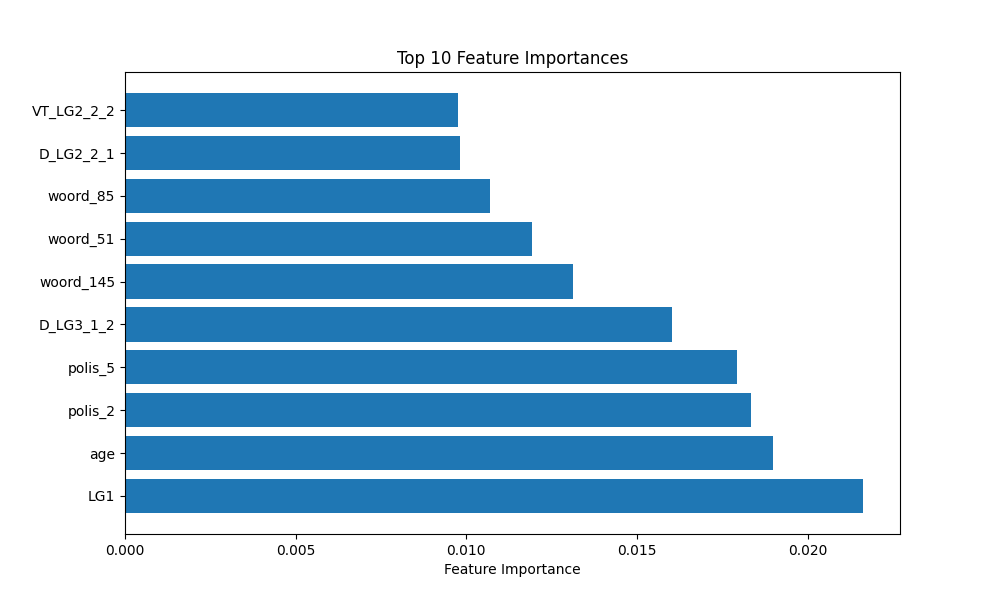
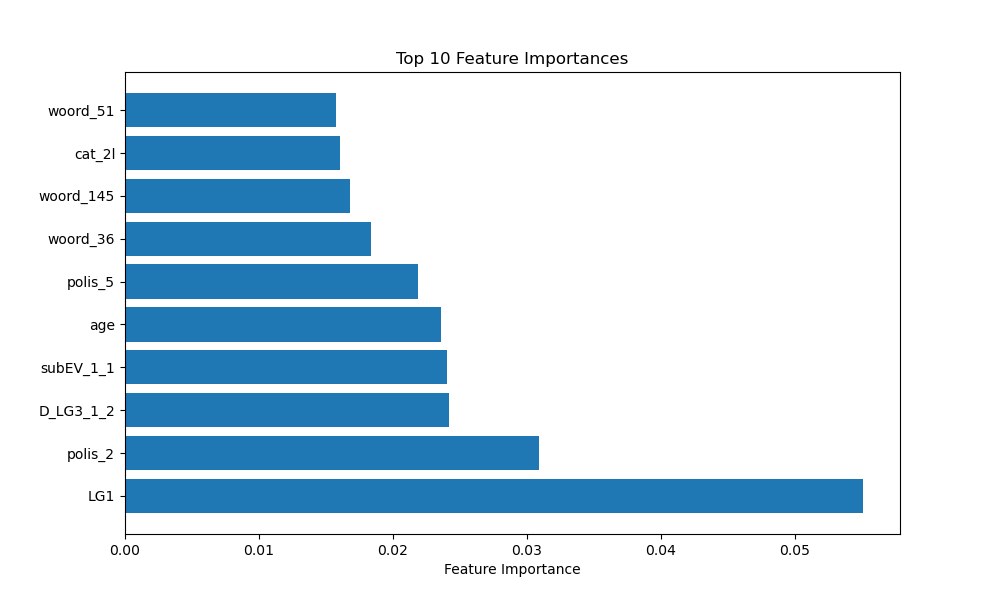
final best model

diff --git a/combined_code.py b/combined_code.py
@@ -15,6 +15,7 @@ from data_research import create_df
 import matplotlib.pyplot as plt
 import joblib
 import numpy as np
+import os
 
 
 class InsuranceClassifier:
@@ -35,7 +36,10 @@ class InsuranceClassifier:
         self._preprocess_data()
         self._cv_creation()
         self._classify_random_forest()
-        self.choose_model_by_rule()
+        if os.path.exists("best_model.joblib"):
+            self.load_the_model()
+        else:
+            self.choose_model_by_rule()
 
     def _prepare_variables(self):
         self.ids = self.erasmus_db["id"]
@@ -132,8 +136,18 @@ class InsuranceClassifier:
         # Choose the simplest model among candidates
         selected_index = candidates.max()
         # Update the best model
-        self.best_model = self.grid_search.best_estimator_.set_params(classifier__n_estimators=cv_results["param_classifier__max_features"][selected_index])
+        self.best_model = self.grid_search.best_estimator_.set_params(classifier__max_features=cv_results["param_classifier__max_features"][selected_index])
         # Update predictions accordingly
+        self.predictions = self.best_model.predict(self.X_test)
+        self.predictions_full = self.best_model.predict(
+            self.erasmus_db.drop("status", axis=1))
+        self.erasmus_db["predictions"] = self.predictions_full
+        defactorized_column = pd.Categorical.from_codes(
+            self.erasmus_db['predictions'], self.definitions)
+        self.erasmus_db['predictions_defactor'] = defactorized_column
+    
+    def load_the_model(self):
+        self.best_model = joblib.load("best_model.joblib")
         self.predictions = self.best_model.predict(self.X_test)
         self.predictions_full = self.best_model.predict(
             self.erasmus_db.drop("status", axis=1))
@@ -150,8 +164,8 @@ class InsuranceClassifier:
     def get_tuning_graph(self):
         results = self.grid_search.cv_results_
         if self.type_of_classifier == "Random Forest":
-            features = self.param_grid['classifier__n_estimators']
-            what_we_are_tuning = "n_estimators"
+            features = self.param_grid['classifier__max_features']
+            what_we_are_tuning = "max_features"
         else:
             features = self.param_grid['classifier__C']
             what_we_are_tuning = "penalty"
@@ -264,7 +278,6 @@ class InsuranceClassifier:
 
     def save_the_model(self):
         joblib.dump(self.best_model, 'best_model.joblib')
-
 
 erasmus_db = create_df()
 
